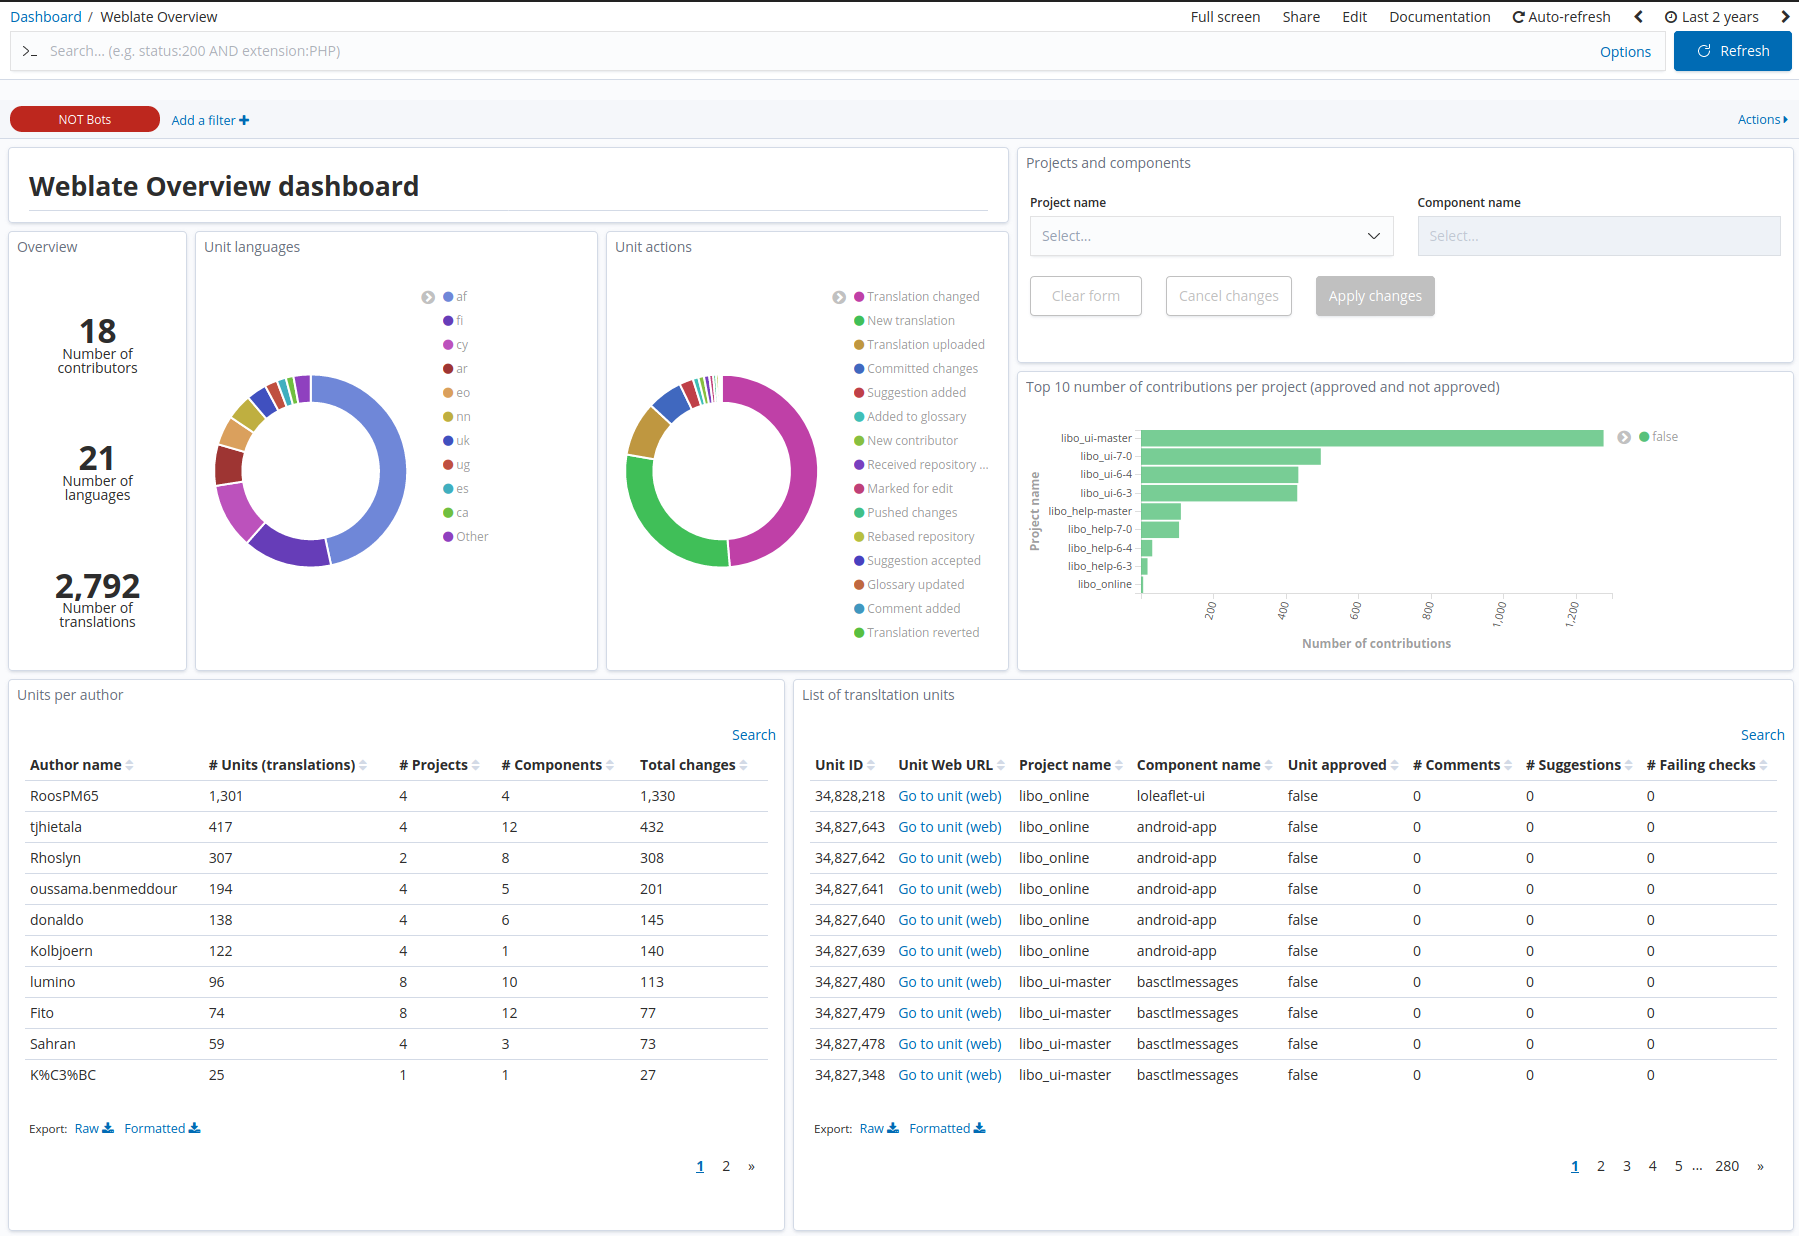
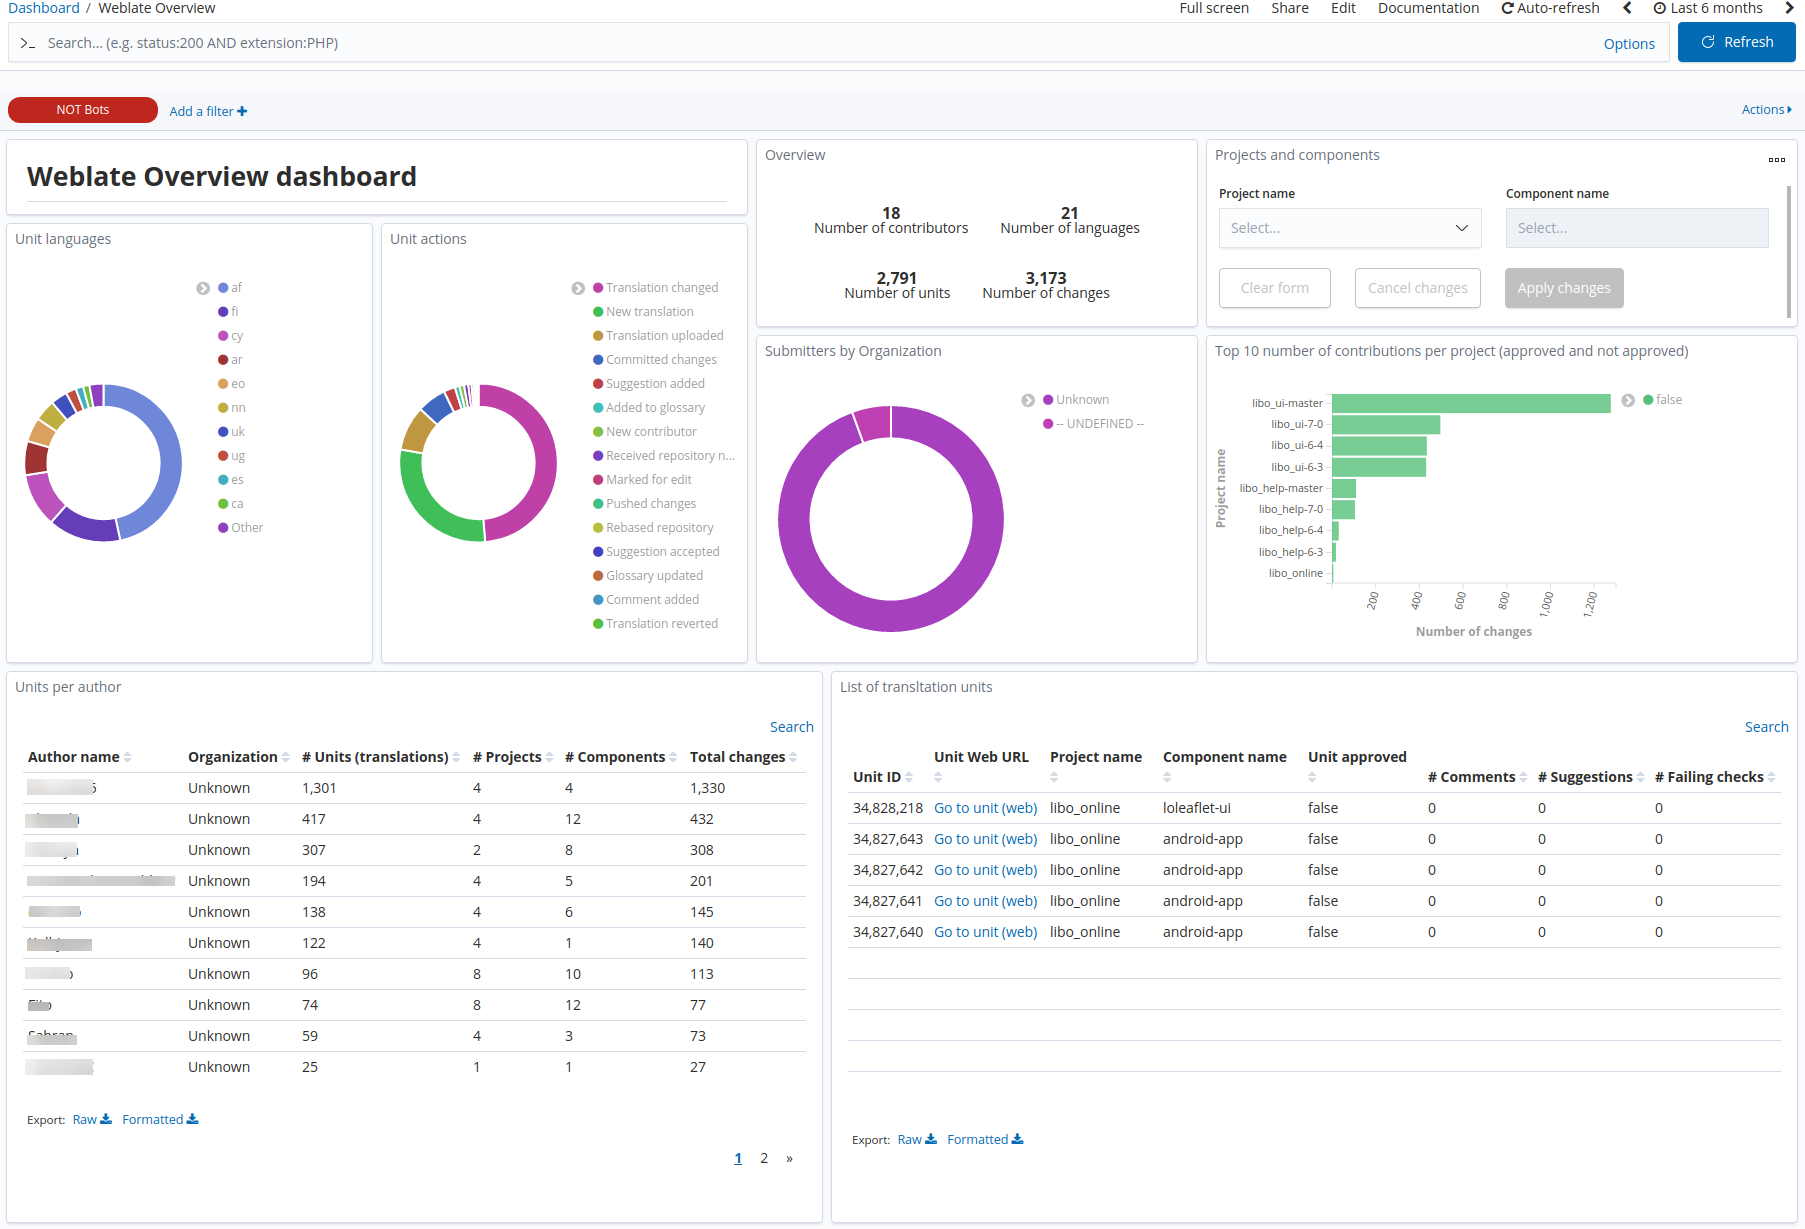
[weblate] Add organization information to overview panel
Now, the panel includes a new pie-chart showing the number
of submitters (users performing changes) by organization.

The rest of visualizations have been reviewed to make sure
translation units are only counted once. The buckets were
created using `unit_web_url` field and now are created using
`unit_id`, as the web URL may change if a translation gets moved
for any reason.

diff --git a/docs/_panels/weblate-overview.md b/docs/_panels/weblate-overview.md
@@ -1,10 +1,10 @@
 ---
 title: Weblate Overview
-description: Weblate overview panel focused on contributors-
+description: Weblate overview panel focused on contributors
 author: Bitergia
 screenshot: sigils/weblate-overview.png
 created_at: 
-grimoirelab_version: 0.2.48
+grimoirelab_version: 0.2.50
 layout: panel
 ---
 
@@ -15,13 +15,18 @@ Most of the visualizations found in it can be explored in more detail in
 the panels corresponding to the different analysis: Unit actions and languages,
 number of contributions per project, units per author and a list of units.
 
+To avoid translation units to be counted more than once, the visualizations
+use the field `unit_id`, instead of the unit URL.
+
 ## Metrics
 
 From left to right and top to bottom, the metrics provided are:
 
-* **Overview**: total numbers of contributors, languages and translations (units).
 * **Unit languages**: pie chart showing the different unit languages.
 * **Unit actions**: pie chart with the different unit actions.
+* **Overview**: total numbers of contributors, languages and translations (units).
+* **Projects and components**: selector to filter by projects and components.
+* **Submitters by Organization**: a pie chart that highlights the number of submitters performing changes grouped by organizations.
 * **Top 10 number of contributions per project**: horizontal bar chart with the amount
   of contributions per project, split by the contributions are approved or not.
 * **Units per author**: table with stats with the number of units, projects,
